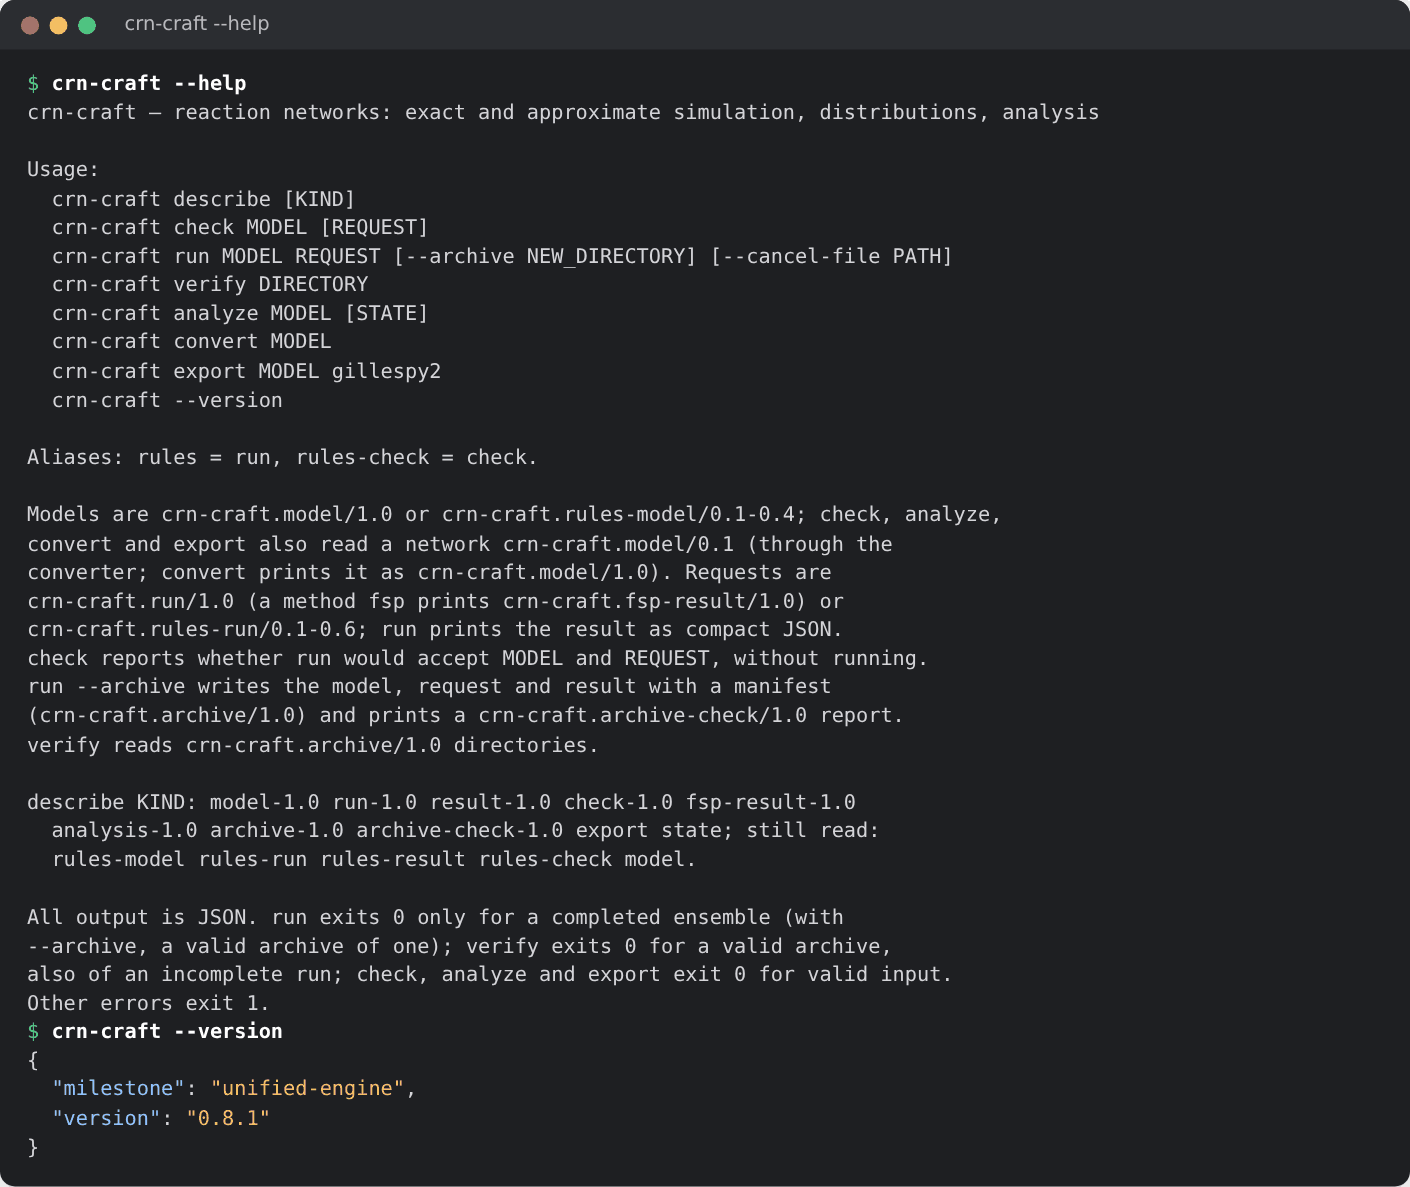
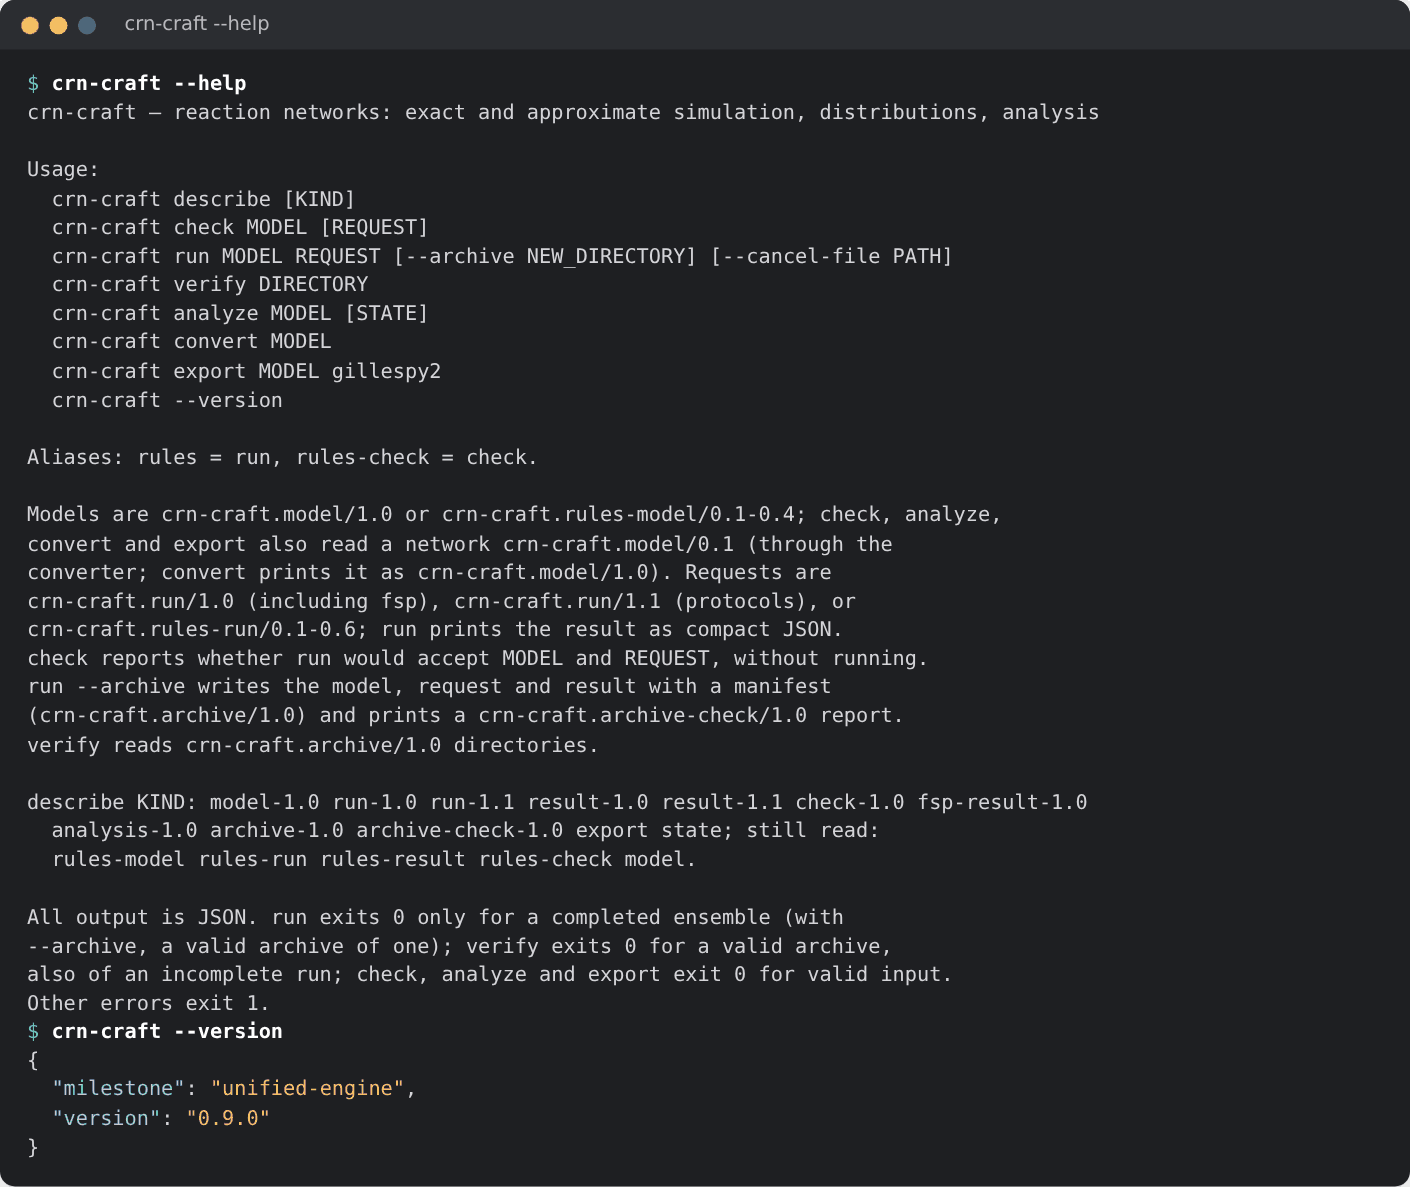
Prepare the 0.9.0 release (version bump, changelog)
Version 0.9.0 in the workspace, the Python extension, pyproject.toml and
the five lockfiles that hold a CRN-craft crate; the README status line,
the install page, the generated Python reference and the help screenshot
follow. The changelog gets its dated section and compare links.

Claude-Session: https://claude.ai/code/session_01Sh6qH1Noyv64tC6dGfSU2Q

diff --git a/CHANGELOG.md b/CHANGELOG.md
@@ -7,6 +7,19 @@ called out. Every contract is versioned on its own (`crn-craft.<kind>/<n>`).
 
 ## [Unreleased]
 
+## [0.9.0] - 2026-11-22
+
+Scheduled experiments and probability laws. Runs follow a protocol of
+timed edits, count changes, partitions and fixed delays under the new
+contracts `crn-craft.run/1.1` and `crn-craft.result/1.1`; `run/1.0`
+requests and their results are unchanged. A prepared finite state
+projection solves time-dependent and stationary laws for many parameter
+vectors on one enumerated state graph, entirely in Rust. Spatial
+compartments, likelihood readouts and a reader for a subset of SBML and
+SED-ML experiment files are added. All XML is read through one guard,
+which closes a hole of 0.8.1: `import_sbml` expanded the entities of a
+UTF-16 document without a byte order mark.
+
 ### Added
 
 - `crn-craft.run/1.1` and `crn-craft.result/1.1`: native linear Static
@@ -1306,7 +1319,8 @@ iterations that make up this release follow.
 - Experimental non-negative Poisson leaping with explicit approximate request/result schemas.
 - Ten performance experiments and same-host reference/quality evidence; no package publishing.
 
-[Unreleased]: https://github.com/dietmarwo/CRN-craft/compare/v0.8.1...HEAD
+[Unreleased]: https://github.com/dietmarwo/CRN-craft/compare/v0.9.0...HEAD
+[0.9.0]: https://github.com/dietmarwo/CRN-craft/compare/v0.8.1...v0.9.0
 [0.8.1]: https://github.com/dietmarwo/CRN-craft/compare/v0.8.0...v0.8.1
 [0.8.0]: https://github.com/dietmarwo/CRN-craft/compare/v0.7.1...v0.8.0
 [0.7.1]: https://github.com/dietmarwo/CRN-craft/compare/v0.7.0...v0.7.1

diff --git a/docs/reference/python-api.md b/docs/reference/python-api.md
@@ -1,8 +1,8 @@
 # Python API
 
-<!-- Generated by validation/make_python_reference.py from crn-craft 0.8.1. Do not edit: run the script with --write. -->
+<!-- Generated by validation/make_python_reference.py from crn-craft 0.9.0. Do not edit: run the script with --write. -->
 
-The public names of `crn_craft` 0.8.1: everything in `crn_craft.__all__`, the methods of `Model`, `PreparedEnsemble`, `Result`, `FspResult` and `CompiledLoop`, and `crn_craft.importers`. The page is generated from the signatures and docstrings of the installed package, so it lists what the package does. Examples are in the [guide](../guide/01-install.md); this page has none.
+The public names of `crn_craft` 0.9.0: everything in `crn_craft.__all__`, the methods of `Model`, `PreparedEnsemble`, `Result`, `FspResult` and `CompiledLoop`, and `crn_craft.importers`. The page is generated from the signatures and docstrings of the installed package, so it lists what the package does. Examples are in the [guide](../guide/01-install.md); this page has none.
 
 Import the package as `import crn_craft as crn`. `crn_craft.rules` is the API of release 0.6.0 under its old name. It has the same names with the defaults and document versions of 0.6.0; the [migration page](../guide/migrating.md) lists the differences. Code written for it keeps running.
 

diff --git a/README.md b/README.md
@@ -83,7 +83,7 @@ reticulate.
 
 ## Status and license
 
-Version 0.8.1. Release 0.7.0 merged two earlier engines into one; the
+Version 0.9.0. Release 0.7.0 merged two earlier engines into one; the
 changelog says what changed and how to migrate. A successful numerical run
 is not biological validation. MIT licensed; see `LICENSE` and
 `THIRD_PARTY_NOTICES.md`.

diff --git a/docs/guide/01-install.md b/docs/guide/01-install.md
@@ -29,7 +29,7 @@ print(crn.describe()["schema"])
 ```
 
 ```text
-0.8.1
+0.9.0
 crn-craft.describe/1.0
 ```
 
